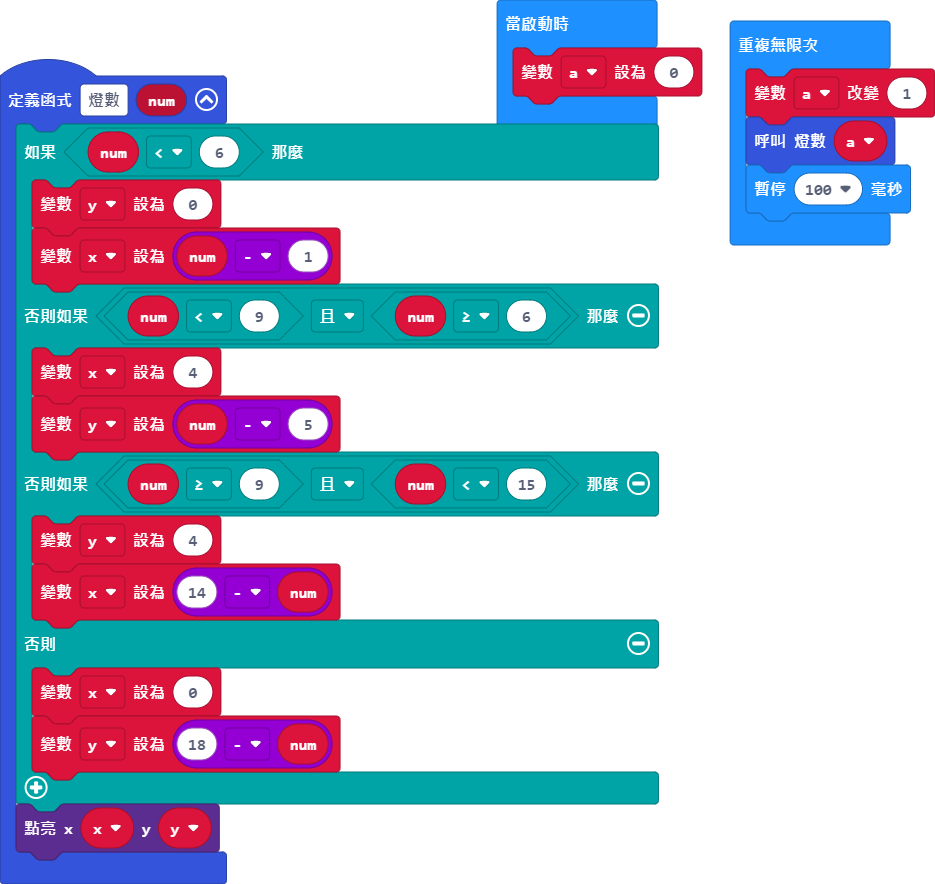
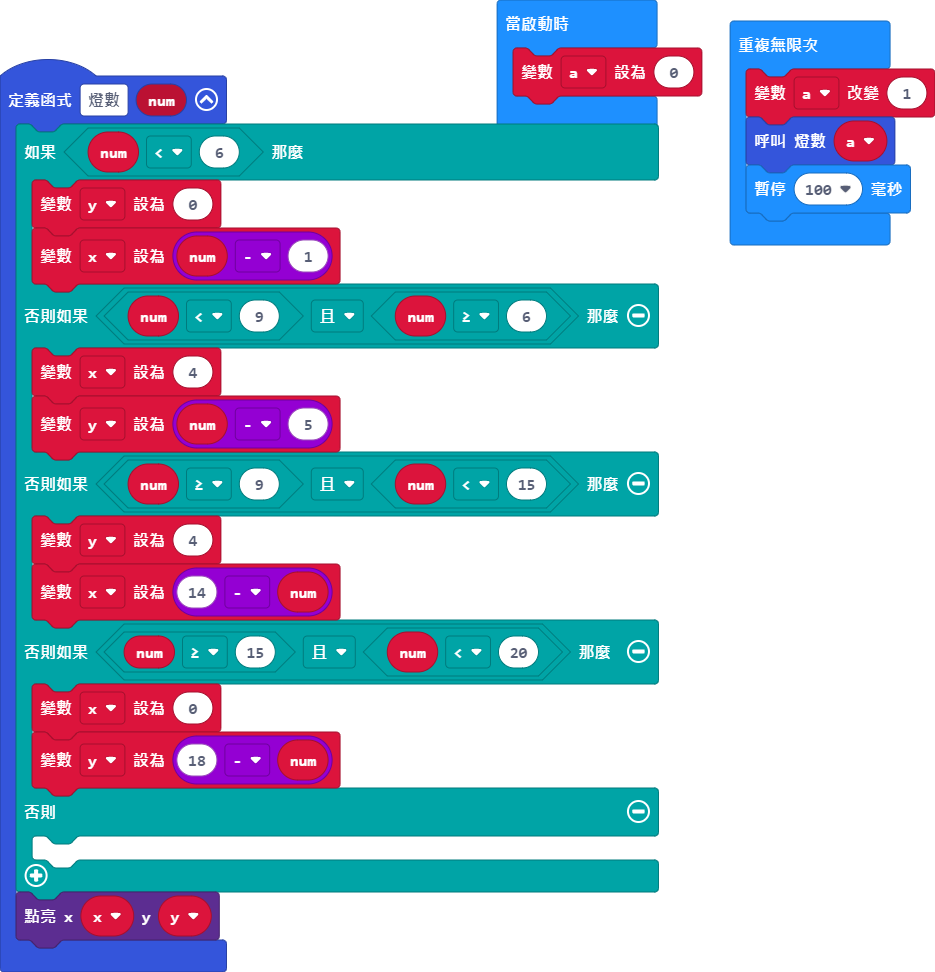
更新 main.blocks, main.ts

diff --git a/main.ts b/main.ts
@@ -8,9 +8,11 @@ function 燈數 (num: number) {
     } else if (num >= 9 && num < 15) {
         y = 4
         x = 14 - num
-    } else {
+    } else if (num >= 15 && num < 20) {
         x = 0
         y = 18 - num
+    } else {
+    	
     }
     led.plot(x, y)
 }
